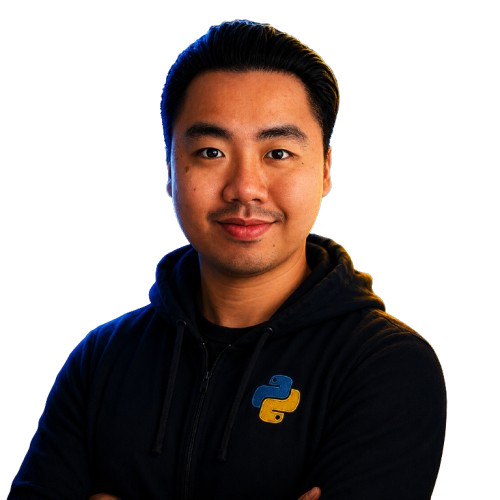
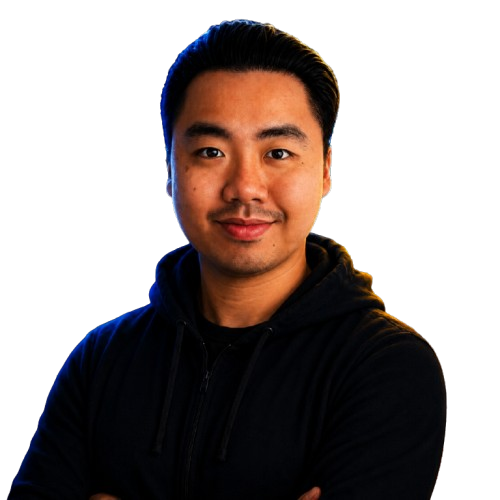
header + hero first step solutions

diff --git a/css/style.css b/css/style.css
@@ -13,6 +13,7 @@
 .header__nav ul {
   display: flex;
   gap: var(--space-md);
+  font-size: 28px;
 }
 
 .header__nav a {
@@ -25,7 +26,7 @@
 }
 
 .header__logo {
-  font-size: 28px;
+  font-size: 40px;
   font-weight: 600;
 }
 
@@ -62,7 +63,7 @@
 }
 
 .container {
-  max-width: 1200px;
+  max-width: 1440px;
   margin-inline: auto;
   padding-inline: var(--space-md);
 }
@@ -82,7 +83,7 @@
   background-repeat: no-repeat, no-repeat;
   background-position: left center, right center;
   background-size: 400px, 180px;
-  margin-bottom: 40px;
+  margin-bottom: -40px;
 }
 
 .hero__content {
@@ -108,7 +109,7 @@
 }
 
 .hero__text h1 {
-  font-size: 3.5rem;
+  font-size: 65px;
   font-weight: 700;
   line-height: 1.1;
 }
@@ -122,8 +123,8 @@
 
 .hero__role {
   color: var(--color-accent-purple);
-  font-size: 3.5rem;
-  font-weight: 600;
+  font-size: 60px;
+  font-weight: 400;
   margin: 0;
 }
 
@@ -133,13 +134,13 @@
   display: flex;
   align-items: center;
   justify-content: space-between;
-  margin-top: 50px;
+  margin-top: 120px;
 }
 
 .hero__scroll {
   writing-mode: vertical-rl;
   color: var(--color-text-muted);
-  font-size: var(--fs-small);
+  font-size: 20px;
 }
 
 .hero__socials {
@@ -166,7 +167,7 @@
 }
 
 .section__title {
-  font-size: var(--fs-h2);
+  font-size: 90px;
   margin-bottom: var(--space-md);
 }
 
@@ -251,4 +252,71 @@
   display: flex;
   align-items: center;
   justify-content: space-between;
+}
+
+/* About me */
+.about {
+  position: relative;
+  overflow: hidden;
+}
+
+.about__grid {
+  display: flex;
+  align-items: center;
+  gap: 135px;
+}
+
+.about__text {
+  max-width: 560px;
+  position: relative;
+  z-index: 1;
+}
+
+.about__intro {
+  margin-bottom: var(--space-sm);
+}
+
+.about__points {
+  margin-top: var(--space-md);
+  display: flex;
+  flex-direction: column;
+  gap: var(--space-md);
+}
+
+.about__points li {
+  display: flex;
+  align-items: flex-start;
+  gap: var(--space-sm);
+}
+
+.about__points img {
+  width: 60px;
+  height: 60px;
+  flex-shrink: 0;
+  margin-top: 0.2rem;
+}
+
+.about__photo-wrap {
+  position: relative;
+  flex-shrink: 0;
+  width: 460px;
+  max-width: none;
+}
+
+.about__glow {
+  position: absolute;
+  top: 50%;
+  left: 50%;
+  transform: translate(-50%, -50%);
+  width: 140%;
+  max-width: none;
+  z-index: 0;
+  pointer-events: none;
+}
+
+.about__photo {
+  position: relative;
+  z-index: 1;
+  width: 100%;
+  object-fit: contain;
 }

diff --git a/index.html b/index.html
@@ -36,7 +36,6 @@
   <div class="hero__content">
     <div class="hero__text">
       <div class="hero__heading-row">
-        <span class="hero__eyebrow">I am</span>
         <h1>Curtis Nguyen-Wellmann</h1>
       </div>
       <p class="hero__role">FRONTEND DEVELOPER</p>
@@ -62,10 +61,34 @@
 </section>
 
   <!-- About me -->
-  <section id="about" class="section container">
-    <h2 class="section__title">About me</h2>
-    <p>Lorem ipsum dolor sit amet, consectetur adipiscing elit. Sed do eiusmod tempor incididunt ut labore et dolore magna aliqua.</p>
-  </section>
+<section id="about" class="section container about">
+  <div class="about__grid">
+    <div class="about__text">
+      <h2 class="section__title">About me</h2>
+      <p class="about__intro">Hey there, I'm Curtis! I build things for the web because I like watching an idea turn into something people can actually click on. Somewhere between debugging a stubborn CSS bug and shipping a feature that just works, I found the part of coding that keeps me hooked.</p>
+      <p class="about__intro">Let's connect and create something amazing together!</p>
+
+      <ul class="about__points">
+        <li>
+          <img src="icons/about me/location.png" alt="">
+          <p>Based in Leipzig, Germany — open to remote work, hybrid setups, or relocating for the right opportunity.</p>
+        </li>
+        <li>
+          <img src="icons/about me/bulb.png" alt="">
+          <p>Always curious, always learning. New frameworks and tools don't scare me — they're just the next thing to figure out.</p>
+        </li>
+        <li>
+          <img src="icons/about me/puzzle.svg" alt="">
+          <p>I like breaking problems down into small, solvable pieces — analytical thinking, a bit of creativity, and enough persistence to see it through.</p>
+        </li>
+      </ul>
+    </div>
+    <div class="about__photo-wrap">
+      <img src="icons/decorative/shadow-photo.png" alt="" class="about__glow" aria-hidden="true">
+      <img src="icons/placeholder-image.png" alt="Curtis Nguyen-Wellmann" class="about__photo">
+    </div>
+  </div>
+</section>
 
   <!-- Skills -->
   <section id="skills" class="section container">